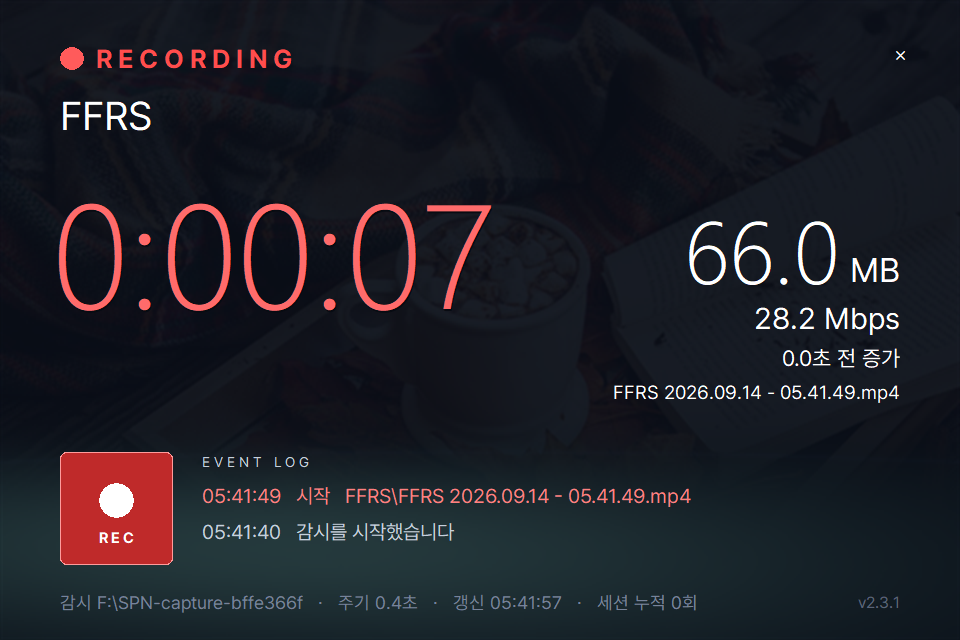
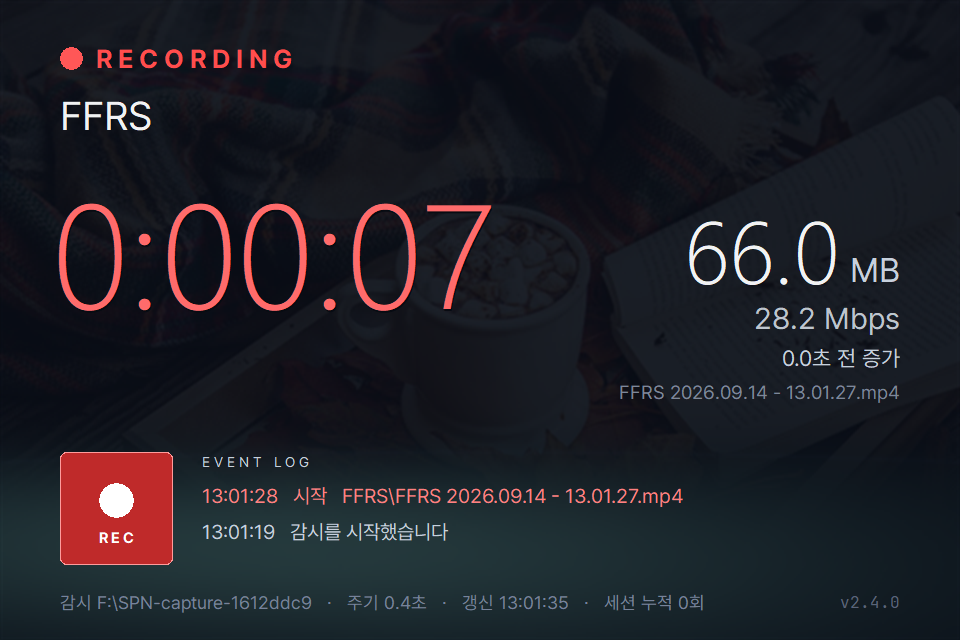
2.4.0: 세 가지 말과 시계 다듬기
화면에 쓸 말을 한국어·영어·일본어 가운데 고를 수 있습니다. `component/i18n.py`
한 곳에서 관리하며 찾아보는 열쇠는 한국어 원문 그대로입니다. 옮겨 둔 것이 없으면
원문이 그대로 나오므로 번역이 빠져도 화면이 비지 않습니다. 월페이퍼와 녹화 화면,
트레이 메뉴, 모든 팝업이 함께 바뀌고 날짜의 짜임새와 요일 이름도 그 말을 따릅니다.
기록은 화면이 아니라 문제를 찾을 때 읽는 글이므로 한국어로 남깁니다.

시계를 누르면 24시간과 12시간을 오갑니다. 12시간으로 보면 시 숫자의 왼쪽 위에
AM·PM 이 붙습니다. 창을 옮기려고 시계를 잡아끄는 것과 구별하려고 누른 자리에서
떼었을 때만 바꿉니다.

긴 곡 이름을 말줄임표로 자르지 않고 흘려 보냅니다. 캔버스에는 글자를 잘라 내는
기능이 없으므로, 왼쪽으로 벗어나는 글자를 문자열에서 덜어 내고 남은 어긋남만
좌표로 당겨 픽셀 단위로 흐르게 했습니다. 반쯤 걸친 글자는 앨범 커버를 위로 올려
가립니다.

시·분 사이 콜론을 점 두 개로 직접 그립니다. 글꼴의 콜론은 점 지름이 글꼴 크기의
0.125 로 숫자 획(0.083~0.089)보다 굵어서 168px 에서는 시각보다 콜론이 먼저 눈에
들어왔습니다. 지름을 0.070 으로 줄이고, 세로 자리는 글꼴을 따르지 않고 숫자 획의
실제 가운데에 맞췄습니다. 활자에서 콜론은 베이스라인 쪽에 앉아 있어 그대로 두면
16px 남짓 처져 보입니다.

JetBrains Mono 를 다시 묶습니다. 시간대 이름과 NOW PLAYING, 도시 이름, 오른쪽
아래 버전처럼 글자 사이가 고르게 보여야 하는 네 자리에만 씁니다. 창을 닫는 ×는
설정·전체화면 버튼과 똑같이 포인터가 들어오거나 창이 앞으로 나왔을 때만 보입니다.
토요일과 일요일에 색을 주고, 기온의 도 표시로 영상과 영하를 가릅니다. 날짜와 요일
사이는 년·월·일 사이와 같은 간격으로 띄웠고, 주파수 막대와 역할이 겹치던 음악
영역의 작은 음량 막대는 없앴습니다.

검사와 캡처 도구는 저장소에서 뺐습니다. 앱을 내려받아 쓰는 사람에게는 필요하지
않고, 도구가 남기는 그림과 측정 결과까지 따라 들어오기 때문입니다.

diff --git a/index.html b/index.html
@@ -330,6 +330,9 @@ footer .links { display: flex; gap: 18px; flex: none; }
   <symbol id="i-monitor" viewBox="0 0 24 24"><rect x="2.5" y="4" width="19" height="13" rx="1.5"/><path d="M8.5 21h7M12 17v4"/></symbol>
   <symbol id="i-tray" viewBox="0 0 24 24"><rect x="3" y="5" width="18" height="14" rx="1.5"/><path d="M3 14.5h5l1.4 2h5.2l1.4-2H21"/></symbol>
   <symbol id="i-down" viewBox="0 0 24 24"><path d="M12 3.5v12M7.5 11.5 12 16l4.5-4.5M4.5 20h15"/></symbol>
+  <symbol id="i-globe" viewBox="0 0 24 24"><circle cx="12" cy="12" r="9"/><path d="M3.3 9.5h17.4M3.3 14.5h17.4"/><path d="M12 3a14 14 0 0 1 0 18 14 14 0 0 1 0-18"/></symbol>
+  <symbol id="i-sync" viewBox="0 0 24 24"><path d="M20 12a8 8 0 0 1-13.7 5.6M4 12a8 8 0 0 1 13.7-5.6"/><path d="M17.7 3v3.6h-3.6M6.3 21v-3.6h3.6"/></symbol>
+  <symbol id="i-bolt" viewBox="0 0 24 24"><path d="M13.2 3 5.5 13.4h5.6L10.8 21l7.7-10.4h-5.6z"/></symbol>
   <symbol id="i-chevron" viewBox="0 0 24 24"><path d="m9 5 7 7-7 7"/></symbol>
   <symbol id="i-github" viewBox="0 0 24 24"><path d="M9 19.2c-4.4 1.3-4.4-2.3-6.2-2.8m12.4 5.4v-3.5c0-1 .1-1.4-.5-2 2.7-.3 5.3-1.4 5.3-6a4.7 4.7 0 0 0-1.3-3.2 4.3 4.3 0 0 0-.1-3.3s-1.1-.3-3.5 1.3a12 12 0 0 0-6.2 0C6.5 3.5 5.4 3.8 5.4 3.8a4.3 4.3 0 0 0-.1 3.3A4.7 4.7 0 0 0 4 10.3c0 4.6 2.6 5.7 5.3 6-.4.4-.5.9-.5 1.5v4.1"/></symbol>
 </svg>
@@ -363,7 +366,7 @@ footer .links { display: flex; gap: 18px; flex: none; }
     <div class="hero-tags">
       <p class="status"><span class="dot"></span><span class="mono">Watching · Idle</span></p>
       <a class="relpill" href="https://github.com/deuxdoom/Shadowplay-Notifier/releases/latest">
-        <span class="mono">Release</span><b data-ver>v2.3.0</b>
+        <span class="mono">Release</span><b data-ver>v2.4.0</b>
         <svg class="icon" aria-hidden="true"><use href="#i-chevron"/></svg>
       </a>
     </div>
@@ -427,7 +430,7 @@ footer .links { display: flex; gap: 18px; flex: none; }
   <div class="shell">
     <div class="head reveal">
       <span class="mono">Features</span>
-      <h2>한 화면에 담은 아홉 가지</h2>
+      <h2>한 화면에 담은 열두 가지</h2>
       <p>보조 모니터를 늘 켜 두는 자리에 맞추어, 멀리서도 읽히는 크기로 필요한 것만 띄웁니다.</p>
     </div>
     <div class="cells reveal">
@@ -449,12 +452,12 @@ footer .links { display: flex; gap: 18px; flex: none; }
       <article class="cell">
         <div class="cell-top"><svg class="icon"><use href="#i-clock"/></svg><span class="no">04</span></div>
         <h3>시계와 날씨</h3>
-        <p>Pretendard로 맞춘 큰 시계와 날짜, 요일에 더해 기온과 오늘 달, 날씨 정보를 띄웁니다. 콜론만 매초 깜빡이고 초 숫자는 계속 표시됩니다. 달은 작은 화면에서도 윤곽이 보입니다. 날씨는 Open-Meteo 에서 받으며 API 키가 필요 없습니다.</p>
+        <p>Pretendard로 맞춘 큰 시계와 날짜, 요일에 더해 기온과 오늘 달, 날씨 정보를 띄웁니다. 시계를 누르면 24시간과 12시간 표시를 오가고, 토요일과 일요일은 색으로 구분합니다. 콜론만 매초 깜빡이고 초 숫자는 계속 표시됩니다. 날씨는 Open-Meteo 에서 받으며 API 키가 필요 없고, 볼 곳은 도시 이름으로 고릅니다.</p>
       </article>
       <article class="cell">
         <div class="cell-top"><svg class="icon"><use href="#i-music"/></svg><span class="no">05</span></div>
         <h3>재생 중인 음악</h3>
-        <p>Spotify 에서 듣고 있는 곡과 아티스트, 앨범 커버를 보여 줍니다. 로그인이나 계정 연결을 요구하지 않습니다.</p>
+        <p>Spotify 에서 듣고 있는 곡과 아티스트, 앨범 커버를 보여 줍니다. 로그인이나 계정 연결을 요구하지 않습니다. 한 줄에 다 들어가지 않는 긴 이름은 잘라 내지 않고 옆으로 흘려보냈다가 다시 앞으로 돌아옵니다.</p>
       </article>
       <article class="cell">
         <div class="cell-top"><svg class="icon"><use href="#i-wave"/></svg><span class="no">06</span></div>
@@ -474,7 +477,22 @@ footer .links { display: flex; gap: 18px; flex: none; }
       <article class="cell">
         <div class="cell-top"><svg class="icon"><use href="#i-tray"/></svg><span class="no">09</span></div>
         <h3>트레이에서 계속 실행</h3>
-        <p>창을 닫으면 알림 영역으로 들어가 녹화 감시만 이어 갑니다. 트레이 메뉴에서 ‘윈도우 시작 시 실행’을 체크하면 로그인 후 자동으로 켜집니다. 감시 폴더와 모니터는 환경설정에서 바꿉니다.</p>
+        <p>창을 닫으면 알림 영역으로 들어가 녹화 감시만 이어 갑니다. 트레이 메뉴에서 ‘윈도우 시작 시 실행’을 체크하면 로그인 후 자동으로 켜지고, ‘최신 버전 확인’으로 새 버전을 받아 그 자리에서 설치합니다.</p>
+      </article>
+      <article class="cell">
+        <div class="cell-top"><svg class="icon"><use href="#i-globe"/></svg><span class="no">10</span></div>
+        <h3>세 가지 말</h3>
+        <p>한국어와 영어, 일본어 가운데 화면에 쓸 말을 고릅니다. 환경설정에서 바꾸면 두 화면과 트레이 메뉴, 모든 팝업이 함께 바뀌고 날짜의 짜임새와 요일 이름도 그 말을 따릅니다.</p>
+      </article>
+      <article class="cell">
+        <div class="cell-top"><svg class="icon"><use href="#i-sync"/></svg><span class="no">11</span></div>
+        <h3>앱에서 업데이트</h3>
+        <p>트레이의 ‘최신 버전 확인’으로 새 정식 버전을 받아 그 자리에서 설치하고 다시 실행합니다. 받은 파일의 SHA-256 을 맞춰 보며, 실패하면 쓰던 버전을 되돌립니다.</p>
+      </article>
+      <article class="cell">
+        <div class="cell-top"><svg class="icon"><use href="#i-bolt"/></svg><span class="no">12</span></div>
+        <h3>빠른 반응</h3>
+        <p>파일이 쓰기로 열려 있는지를 함께 보므로, 녹화를 시작하거나 멈추면 0.5초 안에 화면이 따라옵니다. 크기 증가만 보던 때처럼 몇 초씩 기다리지 않습니다.</p>
       </article>
     </div>
   </div>
@@ -494,7 +512,7 @@ footer .links { display: flex; gap: 18px; flex: none; }
           <img src="wallpaper.png" alt="계절 사진 위에 시계와 날짜, 날씨, 오늘 달, 재생 중인 음악과 파형이 놓인 대기 화면" loading="lazy" width="960" height="640">
           <figcaption><span class="led"></span><span class="mono">Idle</span><span class="right">녹화를 기다리는 동안</span></figcaption>
         </figure>
-        <p class="desc"><b>월페이퍼 화면</b>큰 시계와 날짜, 날씨가 가운데를 차지하고 아래쪽에 지금 듣는 곡과 소리 파형이 놓입니다. 글자는 저마다 놓인 자리의 배경 밝기를 재어 흰색과 검정 가운데 잘 보이는 쪽으로 칠해집니다.</p>
+        <p class="desc"><b>월페이퍼 화면</b>큰 시계와 날짜, 날씨가 가운데를 차지하고 아래쪽에 지금 듣는 곡과 소리 파형이 놓입니다. 글자는 어느 시간대에나 흰색으로 적고, 대신 배경의 밝기를 낮추어 사진이 비쳐 보이면서도 작은 화면에서 읽히게 합니다.</p>
         <div class="keys"><span>Clock</span><span>Weather</span><span>Moon</span><span>Now Playing</span><span>Spectrum</span></div>
       </div>
       <div>
@@ -566,7 +584,7 @@ footer .links { display: flex; gap: 18px; flex: none; }
     <span>ShadowPlay Notifier</span>
     <span>Windows 10 · 11</span>
     <span>MIT License</span>
-    <span class="last" id="ver">v2.3.0</span>
+    <span class="last" id="ver">v2.4.0</span>
   </div>
   <footer>
     <div class="rows">

diff --git a/CHANGELOG.md b/CHANGELOG.md
@@ -3,7 +3,62 @@
 이 파일의 형식은 [Keep a Changelog 1.1.0](https://keepachangelog.com/ko/1.1.0/)을
 따르며, 버전은 [유의적 버전 2.0.0](https://semver.org/lang/ko/)을 따릅니다.
 
-## [2.3.1] - 배포 예정
+## [2.4.0] - 2026-09-14
+
+한국어와 영어, 일본어 가운데 화면에 쓸 말을 고를 수 있습니다. 월페이퍼의 글자를
+어느 시간대에나 흰색으로 통일하고, 배경 사진이 낮에도 밤에도 비쳐 보이도록
+시간대의 색을 다시 잡았습니다. 날씨를 볼 곳은 위도와 경도 대신 도시 이름으로
+고릅니다.
+
+### 새 기능
+
+- **화면에 쓰는 말을 한국어·영어·일본어 가운데 고릅니다.** 환경설정에서 바꾸면
+  월페이퍼와 녹화 화면, 트레이 메뉴, 모든 팝업이 그 말로 나옵니다. 날짜의
+  짜임새와 요일 이름도 함께 바뀝니다. 기본값은 한국어입니다.
+- 트레이의 **최신 버전 확인**에서 새 정식 버전을 확인하고 바로 업데이트합니다.
+  화면 가운데의 진행 창에서 다운로드·파일 확인·설치·재실행 상태를 보여 주며,
+  터미널 창 없이 현재 폴더의 EXE를 교체하고 자동으로 다시 실행합니다.
+  설정과 로그는 보존하고, 업데이트에 실패하면 기존 프로그램을 복구합니다.
+- 환경설정에서 **날씨를 볼 도시**를 이름으로 고릅니다. `Seo` 까지만 적어도
+  `Seoul` 이 후보로 나오고, `서울` 처럼 한글로 찾거나 `Segu` 로 `Séguéla` 를
+  찾을 수도 있습니다. 목록에 없는 도시는 인터넷에서 찾아 덧붙입니다.
+- **시계를 누르면 24시간과 12시간 표시를 오갑니다.** 12시간으로 보면 시 숫자의
+  왼쪽 위에 AM·PM 이 작게 붙습니다. 고른 표시는 다음에 켤 때도 그대로입니다.
+- **긴 곡 이름이 옆으로 흘러갑니다.** 한 줄에 다 들어가지 않는 아티스트와 곡
+  이름을 말줄임표로 자르지 않고, 처음에서 잠깐 멈췄다가 끝까지 흘려보낸 뒤
+  다시 앞으로 돌아옵니다.
+- 월페이퍼의 기온 위에 지금 보고 있는 도시 이름을 작게 표시합니다.
+- **토요일은 파란색, 일요일은 빨간색으로 표시합니다.**
+
+### 변경
+
+- 시·분 사이의 콜론을 가늘게 그립니다. 글꼴의 콜론은 큰 숫자 옆에서 점이 굵어,
+  시각보다 콜론이 먼저 눈에 들어왔습니다.
+- 기온의 도 표시가 영상일 때와 영하일 때 다른 색으로 나옵니다.
+- 창을 닫는 `×` 가 설정·전체화면 버튼과 똑같이, 포인터를 올리거나 창이 앞으로
+  나왔을 때만 보입니다. 그동안은 늘 떠 있었습니다.
+- 시간대 이름(DAWN, DAYLIGHT)과 NOW PLAYING, 도시 이름, 오른쪽 아래 버전 번호를
+  글자 폭이 고른 글꼴로 적습니다.
+- 날짜와 요일 사이가 년·월·일 사이와 같은 간격이 되었습니다.
+- 음악 영역 오른쪽 끝의 작은 음량 막대를 없앴습니다. 소리는 아래의 주파수
+  막대가 이미 보여 줍니다.
+- 월페이퍼의 시계와 날짜, 기온과 날씨 정보가 **어느 시간대에나 흰색**으로 나옵니다.
+  밝은 낮에 검은 글자로 바뀌던 것을 없앴습니다. 작은 보조 화면에서는 검은 글자가
+  읽기 어렵고 보기에도 좋지 않았습니다.
+- 시간대마다 배경에 입히는 색을 어둡게 내리고 덮는 정도를 절반 안팎까지 낮췄습니다.
+  낮에는 하얗게 날아가고 밤에는 캄캄하던 계절 사진이 하루 내내 비쳐 보입니다.
+- 환경설정 창이 본 창처럼 타이틀바 없이 열립니다. 위쪽 줄을 잡아 끌어 옮기고,
+  오른쪽 끝의 `×` 로 닫습니다.
+- 업데이트 창과 안내·폴더 선택 팝업도 같은 프레임리스 디자인으로 통일했습니다.
+  본 창은 항상 프레임리스로 표시합니다.
+- 환경설정 창의 글자와 여백을 줄여 960x640 보조 화면 안에 들어갑니다. 화면 배율이
+  높은 환경에서 창이 본 창보다 커지던 것을 고쳤습니다.
+
+[2.4.0]: https://github.com/deuxdoom/Shadowplay-Notifier/releases/tag/2.4.0
+
+---
+
+## [2.3.1] - 2026-09-14
 
 월페이퍼의 시계와 날씨가 서로 떨어져 보이던 자리를 다듬었습니다.
 
